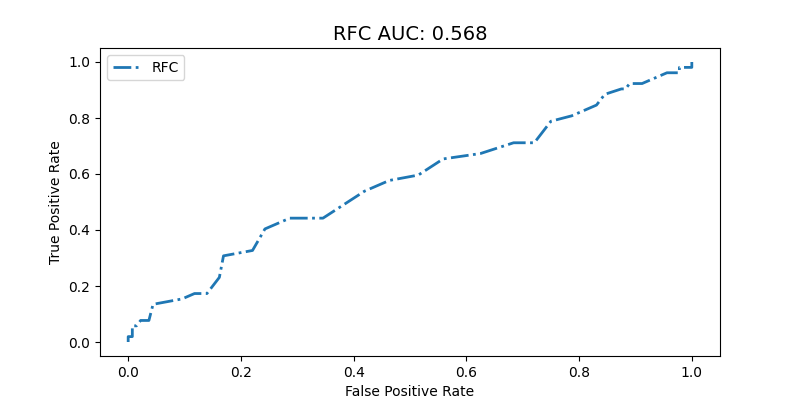
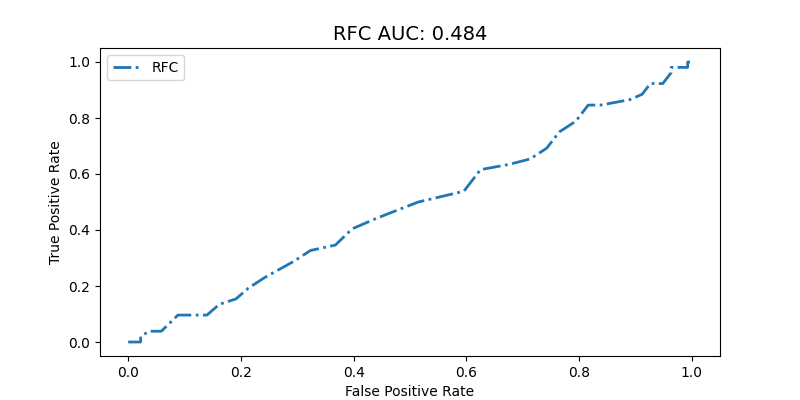
Added better clf score output

diff --git a/Miriam.py b/Miriam.py
@@ -105,6 +105,12 @@ CLF_HPARAMS = {
     "svc": SVC_HPARAMS,
     "ran_for": RAN_FOR_HPARAMS}
 
+CLF_PLOT_NAME = {
+    "dummy": 'MFC',
+    "log_reg": 'LGC',
+    "svc": 'SVC',
+    "ran_for": 'RFC'}
+
 NUM_USERS = 943
 NUM_ITEMS = 1682
 
@@ -373,13 +379,14 @@ def cross_validate(clf, X_r1, X_r2, y_r1, y_r2, attr):
 
     y_predict = search.predict(X_test)
     # display(pd.crosstab(columns=y_predict_RFC, index=y_test, normalize=True).round(3))
-    print('accuracy: {:.3f}'.format(accuracy_score(y_test, y_predict)))
+    clf_accuracy = accuracy_score(y_test, y_predict)
+    print('accuracy: {:.3f}'.format(clf_accuracy))
     # print('f1-score: {:.3f}'.format(f1_score(y_test, y_predict_RFC)))
 
     y_prob = search.predict_proba(X_test)
     auc_score = plot_roc_auc(y_test, y_prob, clf, attr)
     print("auc: ", auc_score)
-    return auc_score
+    return (clf_accuracy, auc_score)
 
 
 ### Evaluation functions ###
@@ -441,13 +448,13 @@ def plot_roc_auc(y_test, y_prob, clf, attr):
     # print('ROC-AUC score: {:.3f}'.format(roc_auc_score(y_test, y_predict_RFC)))
     # print('Average precision score: {:.3f}'.format(average_precision_score(y_test, y_predict_RFC)))
 
-
+    clf_name = CLF_PLOT_NAME[clf]
     fig = plt.figure(figsize=(8, 4))
     # plt.plot(fpr_LR, tpr_LR, linestyle='-', label='Log. Reg.')
-    plt.plot(fpr, tpr, linestyle='-.', lw=2, label='RFC')
+    plt.plot(fpr, tpr, linestyle='-.', lw=2, label=clf_name)
     plt.legend()
     auc_score = auc(x=fpr, y=tpr)
-    plt.title('RFC AUC: {:.3f}'.format( auc(x=fpr, y=tpr)), fontsize=14)
+    plt.title(clf_name + ' AUC: {:.3f}'.format( auc(x=fpr, y=tpr)), fontsize=14)
     plt.xlabel('False Positive Rate')
     plt.ylabel('True Positive Rate')
     #plt.show()
@@ -616,7 +623,7 @@ def write_clf_scores_to_csv(all_results, metric):
             for attr in INFER_ATTR.keys():
                 output[clf][attr] = "------------------"
         attr = result["attr"]
-        output[clf][attr] = result["roc_auc"]
+        output[clf][attr] = result[metric]
 
     for clf in output.keys():
         with open(filename, 'a', newline='') as csvfile:
@@ -719,12 +726,15 @@ def main():
     print("Rec train shape: ", rec_train.shape)
     print("Rec test shape: ", rec_test.shape)
 
+    results = []
+
     for attr in INFER_ATTR.keys():
         if INFER_ATTR[attr] == True:
             # Prepare gender attributes for classification
             attributes_train[attr] = prepare_attributes_for_classifier(user_info, test_users1, attr_type=attr)
             attributes_test[attr] = prepare_attributes_for_classifier(user_info, test_users2, attr_type=attr)
             # print(attributes_test[attr])
+            
 
     for attr in INFER_ATTR.keys():
         if INFER_ATTR[attr] == True:
@@ -743,7 +753,13 @@ def main():
             for clf in CLASSIFIERS.keys():
                 if CLASSIFIERS[clf] == True:
                     print("CV for ", attr)
-                    cross_validate(clf, recs_train_ctx, recs_test_ctx, attributes_train[attr], attributes_test[attr], attr)
+                    result = {}
+                    result['clf'] = clf
+                    result['attr'] = attr
+                    (result['acc'], result['auc']) = cross_validate(clf, recs_train_ctx, recs_test_ctx, attributes_train[attr], attributes_test[attr], attr)
+                    results.append(result)
+    write_clf_scores_to_csv(results, 'acc')
+    write_clf_scores_to_csv(results, 'auc')
 
 
 """
